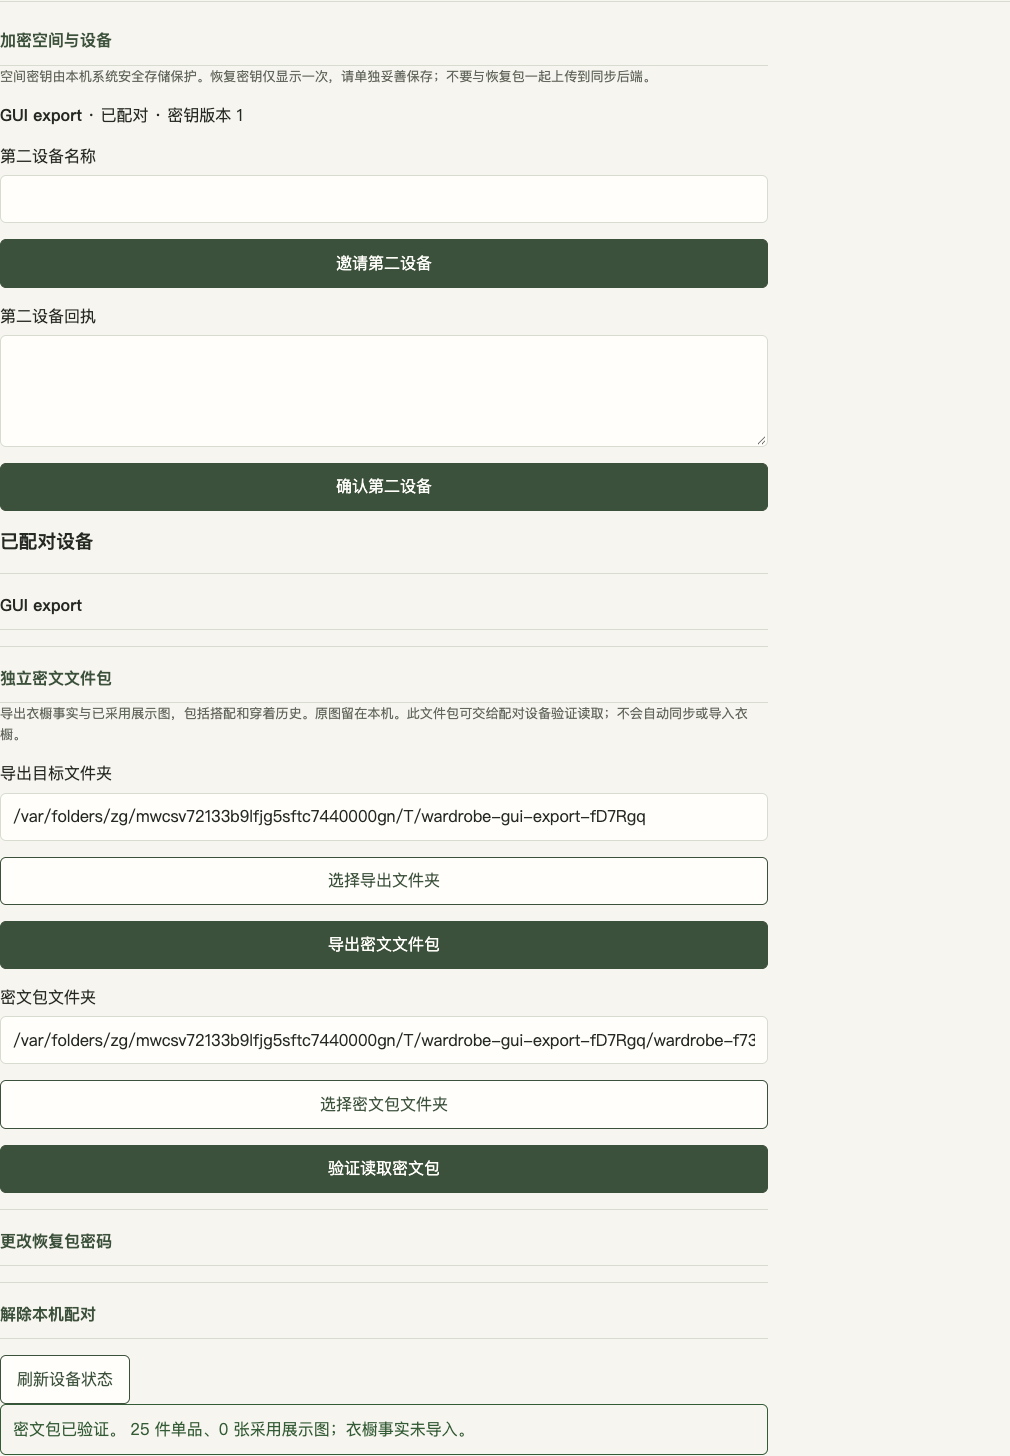
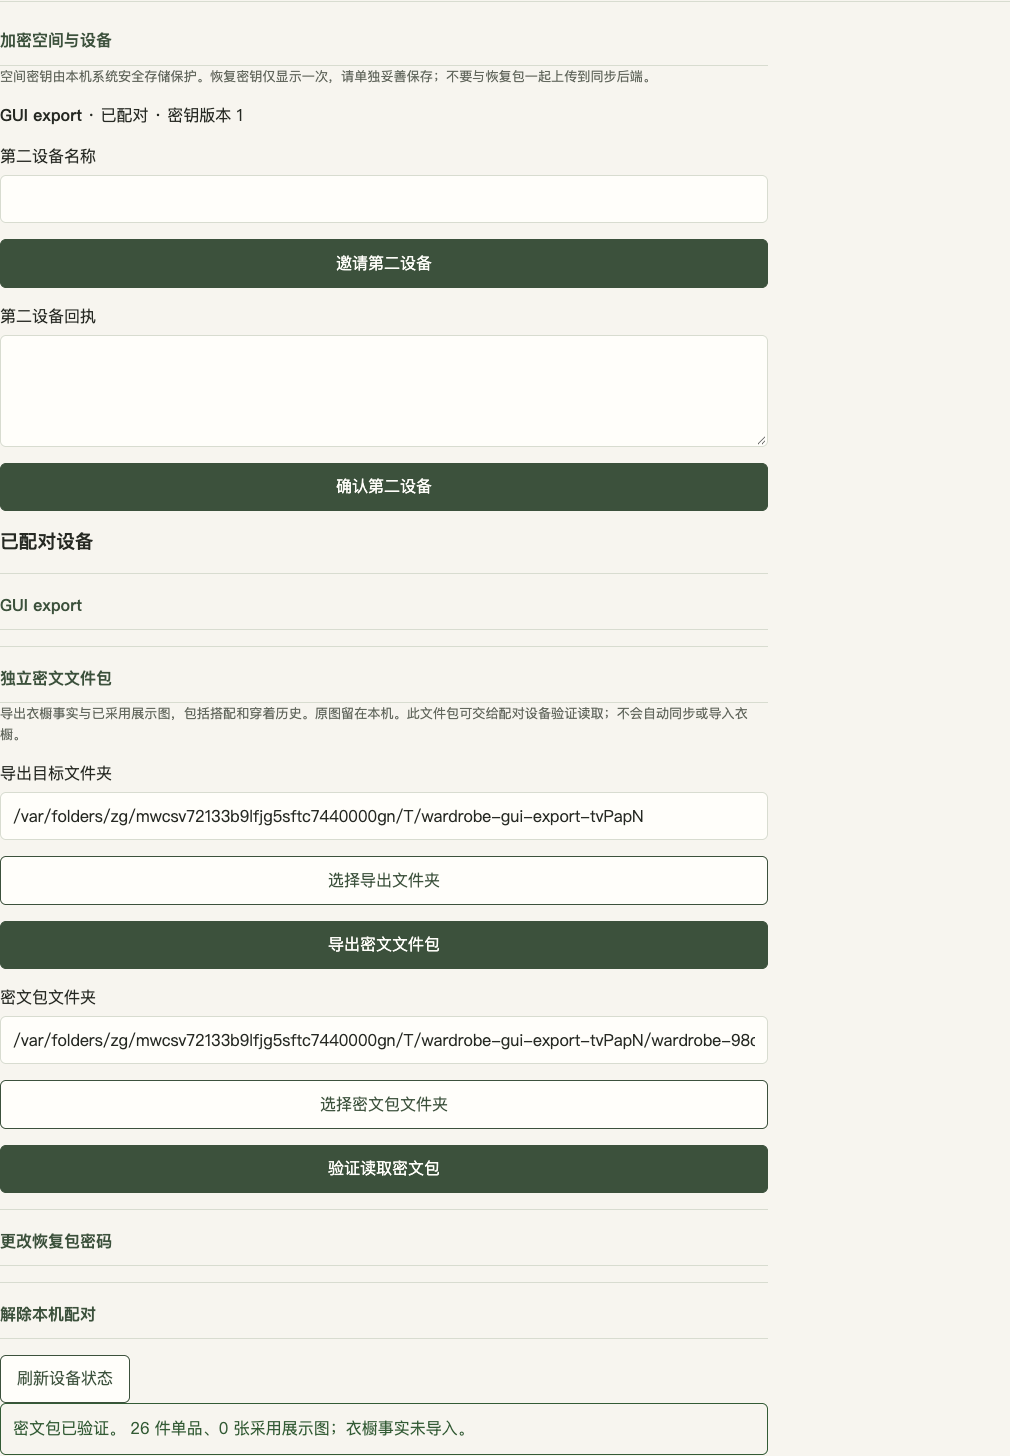
fix: preserve care history and bound encrypted package input

Changed region(s): [[0.0, 0.9272, 0.4604, 0.989], [0.5832, 0.7109, 0.7366, 0.7418], [0.5832, 0.5563, 0.6446, 0.5872]]

diff --git a/crates/wardrobe-core/src/encryption/devices/package.rs b/crates/wardrobe-core/src/encryption/devices/package.rs
@@ -1,8 +1,16 @@
 //! Application-owned, transport-independent encrypted snapshot packages.
 use super::*;
 use sha2::{Digest, Sha256};
-use std::{collections::HashSet, fs, io::Write, path::Path};
+use std::{
+    collections::HashSet,
+    fs,
+    io::{Read, Write},
+    path::Path,
+};
 
+const MAX_FILE_BYTES: u64 = 24 * 1024 * 1024;
+const MAX_PACKAGE_BYTES: u64 = 256 * 1024 * 1024;
+const MAX_OBJECTS: usize = 10000;
 fn error() -> ApiError {
     ApiError::new("package_invalid", "密文包缺失、损坏或与当前设备状态不符")
 }
@@ -26,11 +34,26 @@ fn write_object(path: &Path, bytes: &[u8]) -> Result<(), ApiError> {
 }
 fn bounded(path: &Path) -> Result<Vec<u8>, ApiError> {
     let meta = fs::symlink_metadata(path).map_err(io)?;
-    if !meta.is_file() || meta.len() > 24 * 1024 * 1024 {
+    if !meta.is_file() || meta.len() > MAX_FILE_BYTES {
         return Err(error());
     }
-    let bytes = fs::read(path).map_err(io)?;
-    if bytes.len() > 24 * 1024 * 1024 {
+    let file = fs::File::open(path).map_err(io)?;
+    let opened = file.metadata().map_err(io)?;
+    if !opened.is_file() || opened.len() > MAX_FILE_BYTES {
+        return Err(error());
+    }
+    #[cfg(unix)]
+    {
+        use std::os::unix::fs::MetadataExt;
+        if meta.dev() != opened.dev() || meta.ino() != opened.ino() {
+            return Err(error());
+        }
+    }
+    let mut bytes = Vec::new();
+    file.take(MAX_FILE_BYTES + 1)
+        .read_to_end(&mut bytes)
+        .map_err(io)?;
+    if bytes.len() as u64 > MAX_FILE_BYTES || !fs::symlink_metadata(path).map_err(io)?.is_file() {
         return Err(error());
     }
     Ok(bytes)
@@ -134,11 +157,27 @@ fn facts(app: &Application, table: &str, assets: &HashSet<String>) -> Result<Vec
         let v: Value = serde_json::from_str(&row).map_err(|_| error())?;
         let safe = if table == "clothing" {
             garment(&v, assets)
+        } else if table == "care_config" {
+            projection(
+                &v,
+                &[
+                    "schema_version",
+                    "id",
+                    "member_id",
+                    "clothing_id",
+                    "wash_after_wears",
+                    "revision",
+                    "created_at",
+                    "updated_at",
+                ],
+            )
         } else {
             let mut safe = projection(
                 &v,
                 &[
                     "schema_version",
+                    "clothing_id",
+                    "action",
                     "id",
                     "member_id",
                     "name",
@@ -160,7 +199,11 @@ fn facts(app: &Application, table: &str, assets: &HashSet<String>) -> Result<Vec
                     "occurred_at",
                 ],
             );
-            safe["items"] = items(&v["items"], assets);
+            if table == "care_events" {
+                safe["snapshot"] = garment(&v["snapshot"], assets);
+            } else {
+                safe["items"] = items(&v["items"], assets);
+            }
             if !v["source_outfit"].is_null() {
                 let mut source = projection(
                     &v["source_outfit"],
@@ -182,6 +225,36 @@ fn facts(app: &Application, table: &str, assets: &HashSet<String>) -> Result<Vec
             safe
         };
         result.push(safe);
+    }
+    Ok(result)
+}
+fn care_refs(app: &Application, assets: &HashSet<String>) -> Result<Vec<Value>, ApiError> {
+    let mut stmt = app.connection.prepare(
+        "SELECT event_id,asset_id,member_id FROM care_asset_refs ORDER BY event_id,asset_id",
+    )?;
+    let rows = stmt.query_map([], |r| {
+        Ok((
+            r.get::<_, String>(0)?,
+            r.get::<_, String>(1)?,
+            r.get::<_, String>(2)?,
+        ))
+    })?;
+    let mut result = vec![];
+    let mut total = 0usize;
+    for row in rows {
+        let (event, asset, member) = row?;
+        if !assets.contains(&asset) {
+            return Err(error());
+        }
+        let reference = json!({"event_id":event,"asset_id":asset,"member_id":member});
+        total += reference.to_string().len();
+        if total > MAX_BYTES {
+            return Err(ApiError::new(
+                "package_too_large",
+                "历史引用超出单包容量，未导出任何文件",
+            ));
+        }
+        result.push(reference);
     }
     Ok(result)
 }
@@ -270,10 +343,20 @@ pub(super) fn execute(app: &Application, op: &str, input: Value) -> Result<Value
             let list = app.asset_sync_manifest(json!({"member_id":id}))?;
             for entry in list["assets"].as_array().ok_or_else(error)? {
                 let asset = app.asset_get(json!({"member_id":id,"id":entry["id"]}))?;
-                crate::image_editing::read_display(&asset)?;
+                let decoded = crate::image_editing::read_display(&asset)?;
                 let data = bounded(Path::new(string(&asset["display"], "local_path")?))?;
                 if hash(&data) != entry["blob_hash"]
                     || data.len() as u64 != entry["bytes"].as_u64().ok_or_else(error)?
+                {
+                    return Err(error());
+                }
+                if image::guess_format(&data).map_err(|_| error())? != image::ImageFormat::WebP
+                    || decoded.width() == 0
+                    || decoded.height() == 0
+                    || decoded.width() > 4096
+                    || decoded.height() > 4096
+                    || entry["width"] != decoded.width()
+                    || entry["height"] != decoded.height()
                 {
                     return Err(error());
                 }
@@ -285,7 +368,7 @@ pub(super) fn execute(app: &Application, op: &str, input: Value) -> Result<Value
                 total_bytes = total_bytes
                     .checked_add(object.1.len() as u64)
                     .ok_or_else(error)?;
-                if objects.len() >= 9999 || total_bytes > 256 * 1024 * 1024 {
+                if objects.len() >= MAX_OBJECTS - 1 || total_bytes > MAX_PACKAGE_BYTES {
                     return Err(ApiError::new(
                         "package_too_large",
                         "文件包超过容量限制，未导出任何文件",
@@ -299,12 +382,12 @@ pub(super) fn execute(app: &Application, op: &str, input: Value) -> Result<Value
             .iter()
             .filter_map(|a| a["id"].as_str().map(str::to_owned))
             .collect();
-        let snapshot = json!({"schema_version":1,"space_id":s["space_id"],"members":members,"clothing":facts(app,"clothing",&ids)?,"outfits":facts(app,"outfits",&ids)?,"outfit_versions":facts(app,"outfit_versions",&ids)?,"wear_events":facts(app,"wear_events",&ids)?});
+        let snapshot = json!({"schema_version":1,"space_id":s["space_id"],"members":members,"clothing":facts(app,"clothing",&ids)?,"outfits":facts(app,"outfits",&ids)?,"outfit_versions":facts(app,"outfit_versions",&ids)?,"wear_events":facts(app,"wear_events",&ids)?,"care_config":facts(app,"care_config",&ids)?,"care_events":facts(app,"care_events",&ids)?,"care_asset_refs":care_refs(app,&ids)?});
         let snapshot_object = encrypt_object(&s, &w, &package, "snapshots", snapshot)?;
         total_bytes = total_bytes
             .checked_add(snapshot_object.1.len() as u64)
             .ok_or_else(error)?;
-        if total_bytes > 256 * 1024 * 1024 {
+        if total_bytes > MAX_PACKAGE_BYTES {
             return Err(ApiError::new(
                 "package_too_large",
                 "文件包超过容量限制，未导出任何文件",
@@ -321,6 +404,13 @@ pub(super) fn execute(app: &Application, op: &str, input: Value) -> Result<Value
             return Err(error());
         }
         let header = json!({"protocol_version":1,"space_id":s["space_id"],"epoch":epoch,"manifest":s["manifest"],"index":seal(key.as_ref(),string(&s,"space_id")?,epoch,"snapshots",index_plain.as_bytes())?});
+        let header_bytes = serde_json::to_vec(&header).map_err(|_| error())?;
+        if header_bytes.len() as u64 > MAX_FILE_BYTES {
+            return Err(ApiError::new(
+                "package_too_large",
+                "设备清单或文件索引超出单包容量，未导出任何文件",
+            ));
+        }
         let staging = target.join(format!(".wardrobe-{package}.tmp"));
         let published = target.join(format!("wardrobe-{package}"));
         fs::create_dir(&staging).map_err(io)?;
@@ -328,10 +418,7 @@ pub(super) fn execute(app: &Application, op: &str, input: Value) -> Result<Value
             for (name, data, _) in &objects {
                 write_object(&staging.join(name), data)?;
             }
-            write_object(
-                &staging.join("package.json"),
-                &serde_json::to_vec(&header).map_err(|_| error())?,
-            )?;
+            write_object(&staging.join("package.json"), &header_bytes)?;
             fs::File::open(&staging)
                 .map_err(io)?
                 .sync_all()
@@ -403,7 +490,7 @@ pub(super) fn execute(app: &Application, op: &str, input: Value) -> Result<Value
         let mut names = HashSet::new();
         let mut total_bytes = 0u64;
         let descriptors = index["objects"].as_array().ok_or_else(error)?;
-        if descriptors.len() > 10000 {
+        if descriptors.len() > MAX_OBJECTS {
             return Err(error());
         }
         for descriptor in descriptors {
@@ -420,7 +507,7 @@ pub(super) fn execute(app: &Application, op: &str, input: Value) -> Result<Value
             total_bytes = total_bytes
                 .checked_add(bytes.len() as u64)
                 .ok_or_else(error)?;
-            if total_bytes > 256 * 1024 * 1024 {
+            if total_bytes > MAX_PACKAGE_BYTES {
                 return Err(ApiError::new(
                     "package_too_large",
                     "密文包超出 256 MiB 读取限制",

diff --git a/crates/wardrobe-core/tests/encrypted_package.rs b/crates/wardrobe-core/tests/encrypted_package.rs
@@ -63,8 +63,19 @@ fn paired_installation_reads_application_generated_ciphertext_package_without_or
             json!({"member_id":"default","clothing_id":clothing["id"],"asset_id":asset["id"]}),
         )
         .unwrap();
+    // An imported but unadopted preview must stay local even when its bytes match.
+    let private_preview = owner
+        .execute(
+            "assets.import",
+            json!({"member_id":"default","path":source}),
+        )
+        .unwrap();
     let outfit=owner.execute("outfit.create",json!({"member_id":"default","name":"History look","items":[{"clothing_id":clothing["id"],"role":"top","layer":0}]})).unwrap();
     owner.execute("wear.record",json!({"member_id":"default","operation_key":"history","local_date":"2026-10-01","timezone":"Asia/Shanghai","source_outfit_id":outfit["id"],"source_version":1})).unwrap();
+    owner.execute("care.configure",json!({"member_id":"default","clothing_id":clothing["id"],"wash_after_wears":3,"expected_revision":0,"operation_key":"export threshold"})).unwrap();
+    let care=owner.execute("care.record",json!({"member_id":"default","clothing_id":clothing["id"],"action":"wash","local_date":"2026-10-01","timezone":"Asia/Shanghai","operation_key":"export wash"})).unwrap();
+    let care=owner.execute("care.correct",json!({"member_id":"default","root_event_id":care["root_event_id"],"expected_revision":1,"action":"dry_clean","local_date":"2026-10-01","timezone":"Asia/Shanghai","operation_key":"export correction"})).unwrap();
+    owner.execute("care.revoke",json!({"member_id":"default","root_event_id":care["root_event_id"],"expected_revision":2,"reason":"historical correction","operation_key":"export revoke"})).unwrap();
     owner
         .execute(
             "assets.detach",
@@ -99,6 +110,28 @@ fn paired_installation_reads_application_generated_ciphertext_package_without_or
     let result = peer
         .execute("encryption.package.read", json!({"path":path}))
         .unwrap();
+    assert_eq!(result["snapshot"]["care_config"][0]["wash_after_wears"], 3);
+    assert_eq!(
+        result["snapshot"]["care_events"].as_array().unwrap().len(),
+        3
+    );
+    assert_eq!(
+        result["snapshot"]["care_events"][0]["snapshot"]["name"],
+        "Private export sweater fact"
+    );
+    assert_eq!(
+        result["snapshot"]["care_events"][0]["snapshot"]["display_asset_id"],
+        asset["id"]
+    );
+    assert_eq!(
+        result["snapshot"]["care_asset_refs"]
+            .as_array()
+            .unwrap()
+            .len(),
+        3
+    );
+    assert!(result["snapshot"].get("dirty").is_none());
+    assert!(result["snapshot"].get("care_receipts").is_none());
     assert_eq!(
         result["snapshot"]["clothing"][0]["name"],
         "Private export sweater fact"
@@ -114,6 +147,11 @@ fn paired_installation_reads_application_generated_ciphertext_package_without_or
     );
     assert_eq!(result["assets"].as_array().unwrap().len(), 1);
     assert_eq!(result["assets"][0]["id"], asset["id"]);
+    assert!(result["assets"]
+        .as_array()
+        .unwrap()
+        .iter()
+        .all(|a| a["id"] != private_preview["id"]));
     assert_eq!(result["assets"][0]["role"], "product_display");
     assert!(result.to_string().find("private-camera-source").is_none());
     assert!(result.to_string().find("local_path").is_none());
@@ -145,7 +183,25 @@ fn paired_installation_reads_application_generated_ciphertext_package_without_or
     assert!(peer
         .execute("encryption.package.read", json!({"path":path}))
         .is_err());
+    std::fs::OpenOptions::new()
+        .write(true)
+        .open(&object)
+        .unwrap()
+        .set_len(25 * 1024 * 1024)
+        .unwrap();
+    assert!(peer
+        .execute("encryption.package.read", json!({"path":path}))
+        .is_err());
     std::fs::write(&object, &saved).unwrap();
+    #[cfg(unix)]
+    {
+        let alias = external.path().join("package-link");
+        std::os::unix::fs::symlink(path, &alias).unwrap();
+        assert!(peer
+            .execute("encryption.package.read", json!({"path":alias}))
+            .is_err());
+        std::fs::remove_file(alias).unwrap();
+    }
     let header_path = path.join("package.json");
     let saved_header = std::fs::read(&header_path).unwrap();
     let mut header: serde_json::Value = serde_json::from_slice(&saved_header).unwrap();

diff --git a/docs/verification/ticket-26-export/reproduce_cli.py b/docs/verification/ticket-26-export/reproduce_cli.py
@@ -26,6 +26,10 @@ with tempfile.TemporaryDirectory(prefix='wardrobe-export-cli-') as root:
   call(owner,'assets.adopt',{'member_id':'default','clothing_id':garment['id'],'asset_id':asset['id']})
   look=call(owner,'outfit.create',{'member_id':'default','name':'CLI immutable history','items':[{'clothing_id':garment['id'],'role':'top','layer':0}]})
   call(owner,'wear.record',{'member_id':'default','operation_key':'CLI history','local_date':'2026-10-01','timezone':'Asia/Shanghai','source_outfit_id':look['id'],'source_version':1})
+  call(owner,'care.configure',{'member_id':'default','clothing_id':garment['id'],'wash_after_wears':3,'expected_revision':0,'operation_key':'CLI threshold'})
+  care=call(owner,'care.record',{'member_id':'default','clothing_id':garment['id'],'action':'wash','local_date':'2026-10-01','timezone':'Asia/Shanghai','operation_key':'CLI wash'})
+  care=call(owner,'care.correct',{'member_id':'default','root_event_id':care['root_event_id'],'expected_revision':1,'action':'dry_clean','local_date':'2026-10-01','timezone':'Asia/Shanghai','operation_key':'CLI corrected wash'})
+  call(owner,'care.revoke',{'member_id':'default','root_event_id':care['root_event_id'],'expected_revision':2,'reason':'CLI historical care','operation_key':'CLI revoke wash'})
   call(owner,'assets.detach',{'member_id':'default','clothing_id':garment['id'],'asset_id':asset['id']})
   exported=call(owner,'encryption.package.export',{'directory':str(external)});package=pathlib.Path(exported['path'])
   for child in package.iterdir():
@@ -35,6 +39,10 @@ with tempfile.TemporaryDirectory(prefix='wardrobe-export-cli-') as root:
   assert inspected['snapshot']['clothing'][0]['name']==garment['name']
   assert inspected['snapshot']['wear_events'][0]['source_outfit']['version']==1
   assert inspected['assets'][0]['id']==asset['id']
+  assert inspected['snapshot']['care_config'][0]['wash_after_wears']==3
+  assert len(inspected['snapshot']['care_events'])==3
+  assert len(inspected['snapshot']['care_asset_refs'])==3
+  assert inspected['snapshot']['care_events'][0]['snapshot']['display_asset_id']==asset['id']
   assert 'local_path' not in json.dumps(inspected) and 'original' not in json.dumps(inspected)
   assert call(peer,'clothing.list',{'member_id':'default'})['items']==[]
   client=call(owner,'client.authorize',{'name':'CLI full package denial','mode':'full','operations':[],'member_ids':None,'expires_at':None})
@@ -47,7 +55,7 @@ with tempfile.TemporaryDirectory(prefix='wardrobe-export-cli-') as root:
   messages=[json.loads(v) for v in proc.stdout.splitlines() if v.strip()]
   tools=next(v['result']['tools'] for v in messages if v.get('id')==2)
   assert not any(t['name'].startswith('encryption.') for t in tools)
-  print(json.dumps({'paired_installations':2,'external_files':len(list(package.iterdir())),'display_assets':len(inspected['assets']),'original_or_plaintext_found':False,'peer_facts_imported':False,'full_client_package_operations_denied':2,'mcp_encryption_tools':0}))
+  print(json.dumps({'paired_installations':2,'external_files':len(list(package.iterdir())),'display_assets':len(inspected['assets']),'care_revisions':len(inspected['snapshot']['care_events']),'original_or_plaintext_found':False,'peer_facts_imported':False,'full_client_package_operations_denied':2,'mcp_encryption_tools':0}))
  finally:
   for directory in [peer,owner]:
    if directory.exists():call(directory,'encryption.unpair')

diff --git a/crates/wardrobe-core/src/assets.rs b/crates/wardrobe-core/src/assets.rs
@@ -128,7 +128,7 @@ impl Application {
     }
     pub(super) fn asset_sync_manifest(&self, input: Value) -> Result<Value, ApiError> {
         let member = self.member(&input)?;
-        let mut references=self.connection.prepare("SELECT json_extract(item.value,'$.snapshot.display_asset_id') FROM outfit_versions v JOIN outfits o ON o.id=v.outfit_id JOIN json_each(v.document,'$.items') item WHERE o.member_id=?1 UNION SELECT a.value FROM outfit_versions v JOIN outfits o ON o.id=v.outfit_id JOIN json_each(v.document,'$.items') item JOIN json_each(item.value,'$.snapshot.asset_ids') a WHERE o.member_id=?1 UNION SELECT asset_id FROM wear_asset_refs WHERE member_id=?1")?;
+        let mut references=self.connection.prepare("SELECT json_extract(item.value,'$.snapshot.display_asset_id') FROM outfit_versions v JOIN outfits o ON o.id=v.outfit_id JOIN json_each(v.document,'$.items') item WHERE o.member_id=?1 UNION SELECT a.value FROM outfit_versions v JOIN outfits o ON o.id=v.outfit_id JOIN json_each(v.document,'$.items') item JOIN json_each(item.value,'$.snapshot.asset_ids') a WHERE o.member_id=?1 UNION SELECT asset_id FROM wear_asset_refs WHERE member_id=?1 UNION SELECT asset_id FROM care_asset_refs WHERE member_id=?1")?;
         let historical_ids = references
             .query_map([&member], |r| r.get::<_, Option<String>>(0))?
             .collect::<Result<Vec<_>, _>>()?

diff --git a/docs/adr/0019-encrypted-snapshot-packages.md b/docs/adr/0019-encrypted-snapshot-packages.md
@@ -4,13 +4,13 @@
 
 #26 的通用 encrypt/decrypt 不能证明业务数据和原图排除。Application 现在提供受信任本机专用 encryption.package.export/read；CLI 使用标准输入，full 外部客户端与 MCP 均不能获得此管理权限。GUI 是同一 Application 边界。无需新增表或数据库版本。
 
-导出用 IMMEDIATE SQLite 事务读取同一状态的成员、当前单品／搭配、全部搭配版本与穿着修订，字段逐项白名单，source_outfit 保留完整事实快照、角色、层次与图片引用。成员使用既有 member.list 投影。导出不包含任务、供应商、客户端凭据、钱包、恢复材料、原图、缩略图、本机路径及图片元数据。用户主动录入的 notes 等文本属于事实，不能按文本语义自动删改。
+导出用 IMMEDIATE SQLite 事务读取同一状态的成员、当前单品／搭配、全部搭配版本与穿着修订、护理配置和全部护理修订／图片引用，字段逐项白名单，source_outfit 保留完整事实快照、角色、层次与图片引用。成员使用既有 member.list 投影。导出不包含任务、供应商、客户端凭据、钱包、恢复材料、原图、缩略图、本机路径及图片元数据。用户主动录入的 notes 等文本属于事实，不能按文本语义自动删改。
 
-图片授权集中于 assets.sync_manifest：当前 adopted/workspace 产品展示图以及 immutable outfit 快照 asset_ids/display_asset_id、wear_asset_refs 所授权的曾采用展示图。只有 product_display/WebP 可以导出。读取实际展示字节、SHA256、长度及图像解码；缺失损坏必须失败，绝不回退原图。图片 ID 和内容 hash 在密文索引／对象中，不作为公开文件名。
+图片授权集中于 assets.sync_manifest：当前 adopted/workspace 产品展示图以及 immutable outfit 快照 asset_ids/display_asset_id、wear_asset_refs／care_asset_refs 所授权的曾采用展示图。只有 product_display/WebP 可以导出。读取实际展示字节、SHA256、长度及图像解码；缺失损坏必须失败，绝不回退原图。图片 ID 和内容 hash 在密文索引／对象中，不作为公开文件名。
 
 包目录是随机不可变身份，只含 package.json 和随机名认证密文对象。公开头包含协议／空间／epoch 与现有原始签名设备清单；清单中的公开设备身份属于协议元数据。AEAD 索引绑定该清单 hash、sender、package ID、对象名字／用途／长度／密文 hash；快照与 blob 使用既有 HKDF 空间／epoch／用途派生及 XChaCha20-Poly1305。对象内再次绑定 package/object ID。所有文件同步后原子重命名 staging，不覆盖已有包，失败仅清理本次 staging。原图字节和路径不会进索引或对象。
 
-读取先以固定 owner_public 对 raw manifest 严格验签，并要求与本机已接受的当前 manifest/revision/epoch 完全相同；不自动应用外来清单、不更新事实。接收者必须已确认且未被本机已知清单撤销，发送者必须在当前清单内。验证 inventory/hash/长度/AEAD/对象身份、WebP 格式、尺寸和分配限制后返回 inspection 结果。新清单需先用 device.apply 显式接受。旧包仍是历史密文；得知新 epoch 的设备不能把它当作当前可接收包。未知撤销的离线设备仍可能解读它已持有的旧密钥／旧包，不能声称远程擦除或全局离线撤销。
+读取先以固定 owner_public 对 raw manifest 严格验签，并要求与本机已接受的当前 manifest/revision/epoch 完全相同；不自动应用外来清单、不更新事实。接收者必须已确认且未被本机已知清单撤销，发送者必须在当前清单内。用有界File读取（最多24MiB+1，Unix核对stat/open inode），验证 inventory/hash/长度/AEAD/对象身份、WebP 格式、尺寸和分配限制后返回 inspection 结果。新清单需先用 device.apply 显式接受。旧包仍是历史密文；得知新 epoch 的设备不能把它当作当前可接收包。未知撤销的离线设备仍可能解读它已持有的旧密钥／旧包，不能声称远程擦除或全局离线撤销。
 
 当前手动包的确定容量：最多10000对象（包含一个快照）、对象明文最多16MiB（blob 包括 base64 和元数据）、单个外部文件最多24MiB、密文对象合计最多256MiB。各事实集合读行累计也限制16MiB；组合快照最终执行同一明文限制。超限在发布前失败、不截断，不承诺此单包代替完整衣橱大规模同步。#27必须分页／分片覆盖规格10k衣物与100k穿着，在同一白名单 serializer/asset manifest 上实现transport、outbox、inbox、冲突合并；本票没有S3/WebDAV上传器。
 
